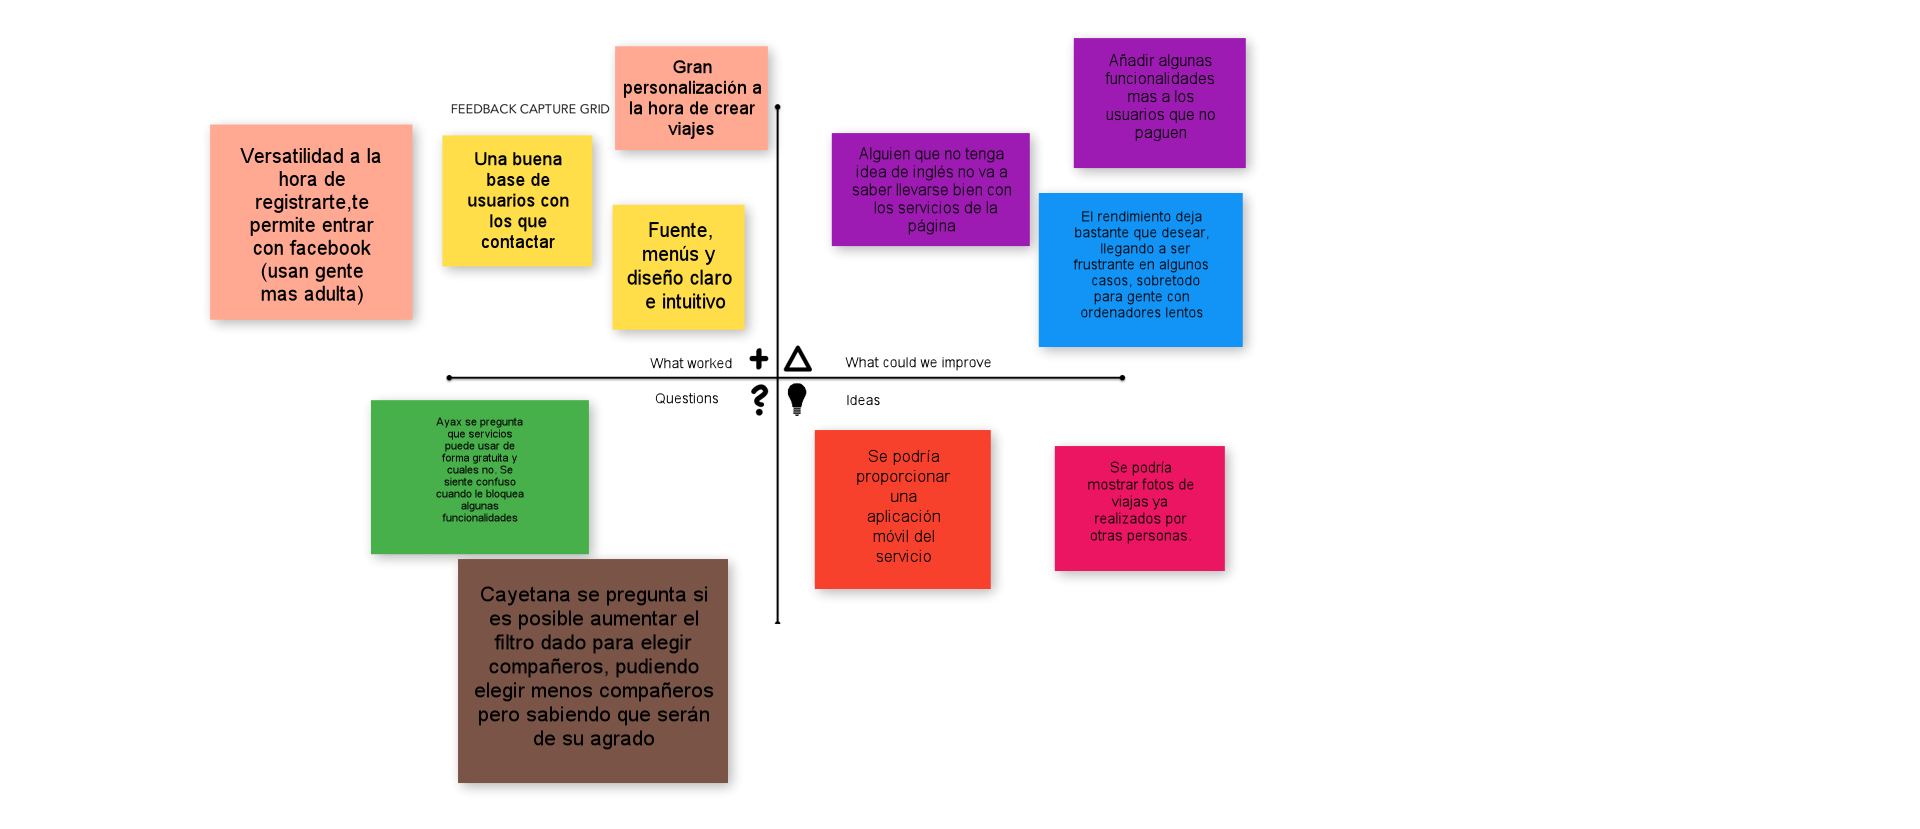
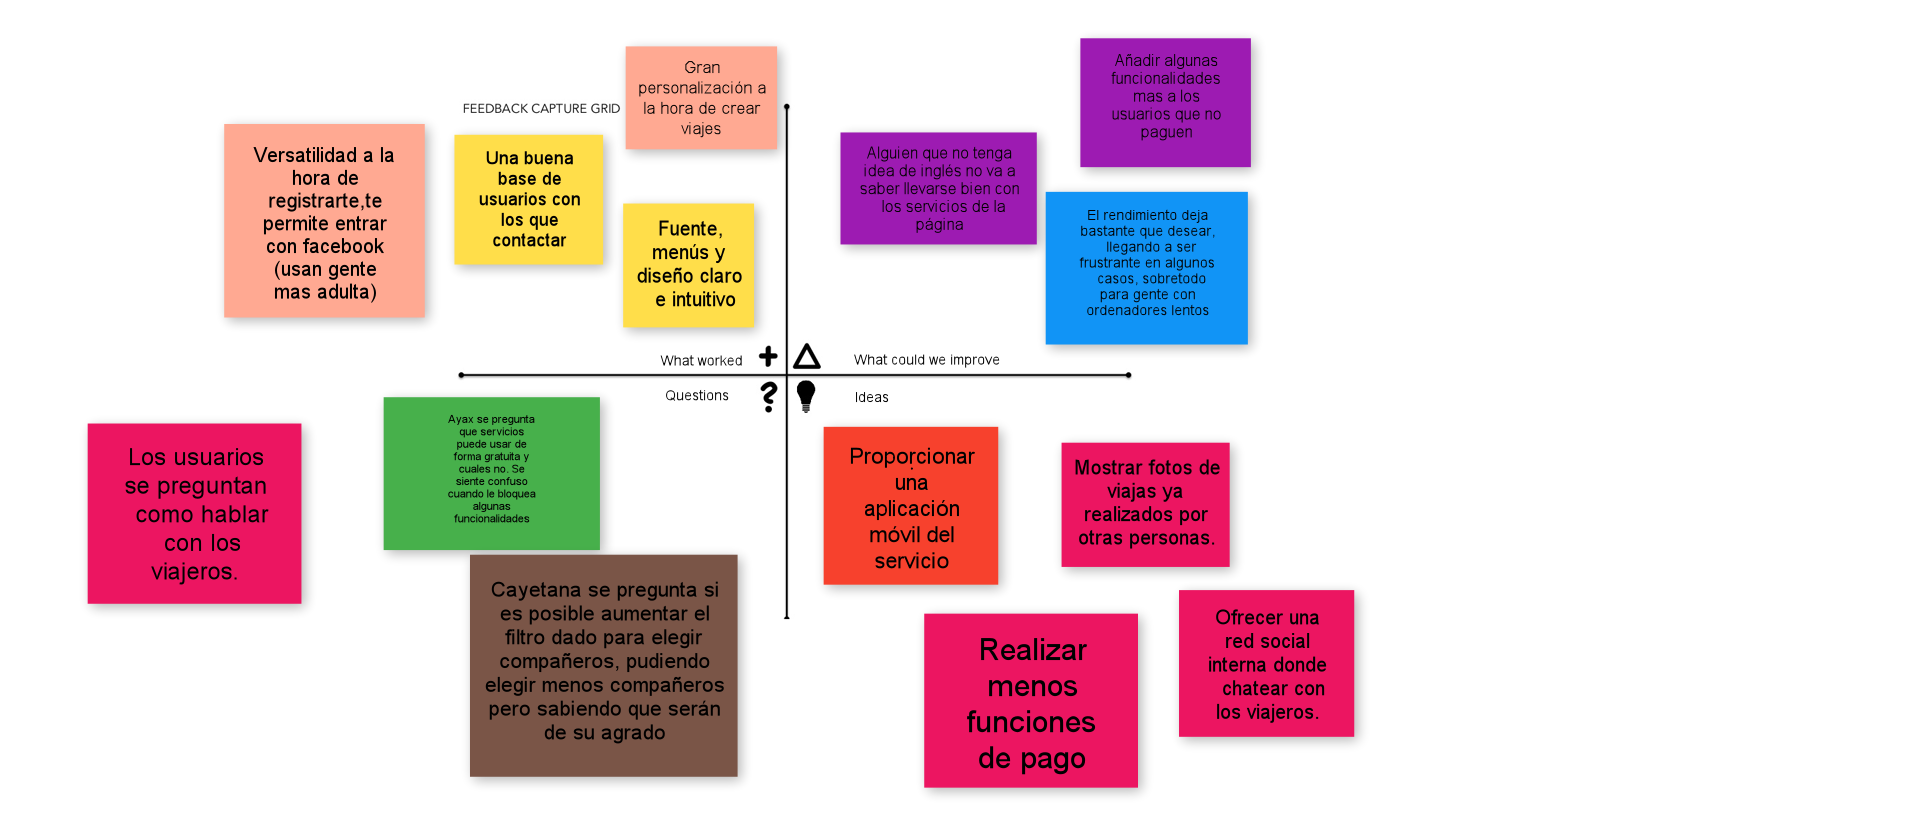
cambiando los posit y la propuesta de valor

Changed region(s): [[0.0312, 0.0302, 0.7188, 0.965]]

diff --git a/README.md b/README.md
@@ -67,9 +67,9 @@ Es una página muy limpia e intuitiva. Ofrece un servicio variado y nuevo pero l
 ![Método UX](img/feedback-capture-grid.png) 2.a Feedback Capture Grid
 ----
 
-![Malla receptora](img/aww-board.png) Feedback Capture Grid
+![Malla receptora](img/aww-board.png) Feedback Capture Grid     
   
-Para todas las personas que quieran tener la oportunidad de viajar pero no tengan recursos económicos, se les permite viajar con compañeros para amortizar gastos así como forzas nuevos vínculos.
+Nuestra propuesta de valor trata de dirigirse a un público con menos recursos económicos y permitiendo su uso sin opción de pago. También satisface las necesidades de algunas personas mayores con una aplicación móvil y un chat para hablar con los viajeros.
 
 ![Método UX](img/Sitemap.png) 2.b Tasks & Sitemap 
 -----
